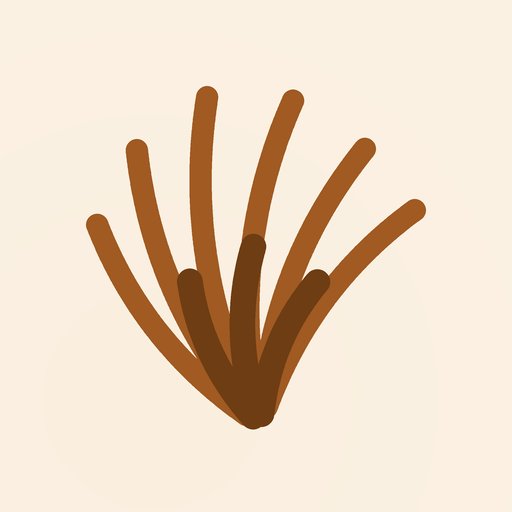
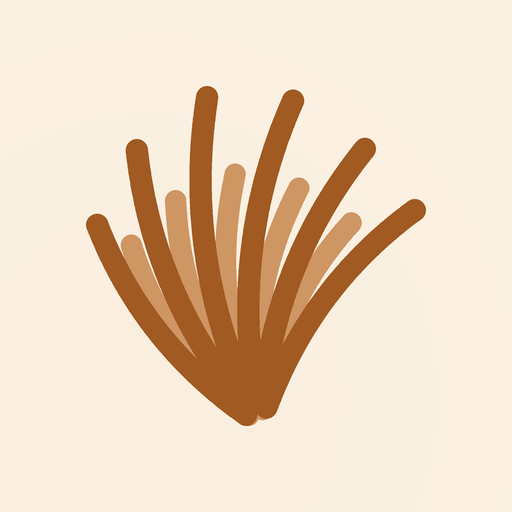
deploy 20260612-0220

Changed region(s): [[0.2188, 0.3125, 0.7188, 0.8438]]

diff --git a/sw.js b/sw.js
@@ -2,8 +2,8 @@
    Hashed assets + fonts: cache-first (immutable). index.html, manifest, trip-data.enc:
    network-first with a short timeout, falling back to cache, so a weak signal never
    blocks boot. Cache name is stamped per deploy; old caches die on activate.
-   20260612021247 is substituted by scripts/deploy.sh. */
-const CACHE = "excurse-20260612021247";
+   20260612022016 is substituted by scripts/deploy.sh. */
+const CACHE = "excurse-20260612022016";
 const NET_TIMEOUT = 3500;
 
 self.addEventListener("install", () => self.skipWaiting());

diff --git a/index.html b/index.html
@@ -16,7 +16,7 @@
 @font-face{font-family:"Source Serif 4";src:url("./fonts/source-serif-italic-var.woff2") format("woff2");font-style:italic;font-weight:200 900;font-display:swap}
 @font-face{font-family:"Archivo";src:url("./fonts/archivo-var.woff2") format("woff2");font-weight:100 900;font-display:swap}
 </style>
-  <script type="module" crossorigin src="./assets/index-DA186V-A.js"></script>
+  <script type="module" crossorigin src="./assets/index-AqsX6Xvh.js"></script>
   <link rel="stylesheet" crossorigin href="./assets/style-CMsRU46P.css">
 </head>
 <body>